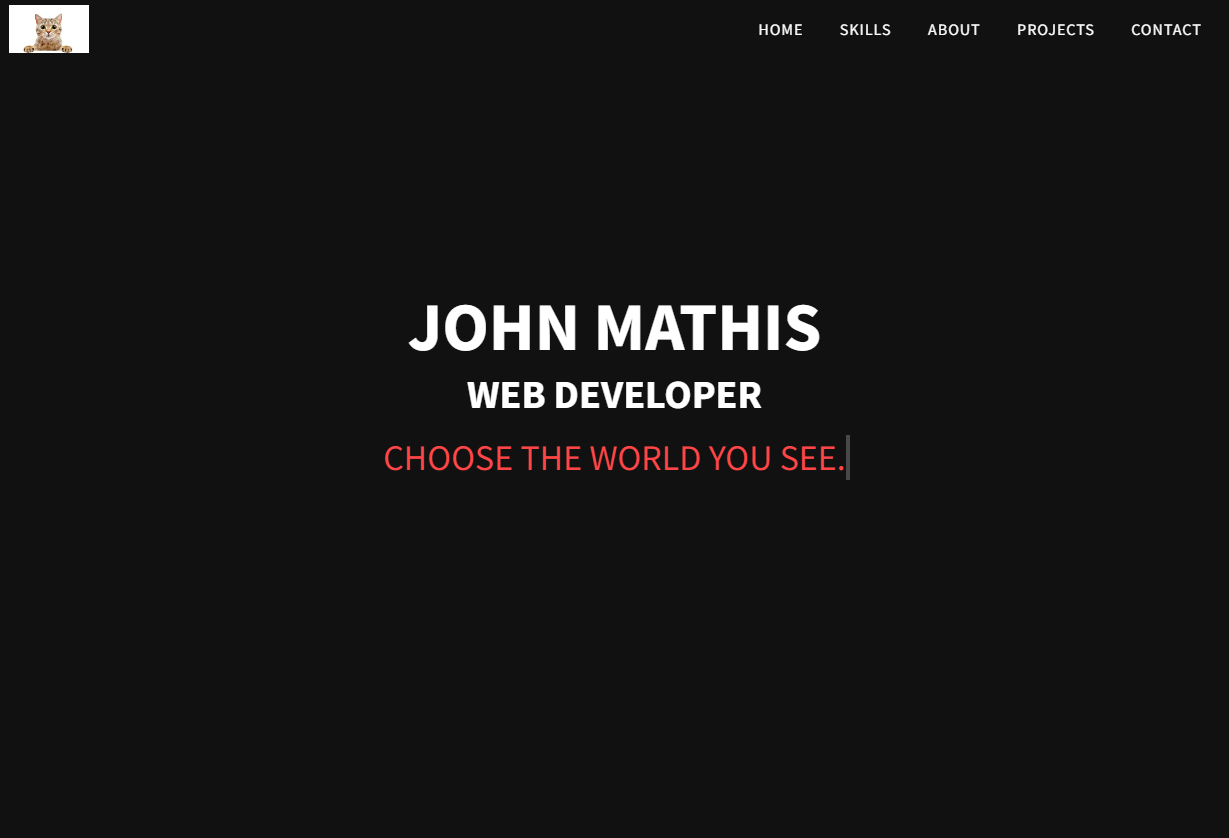
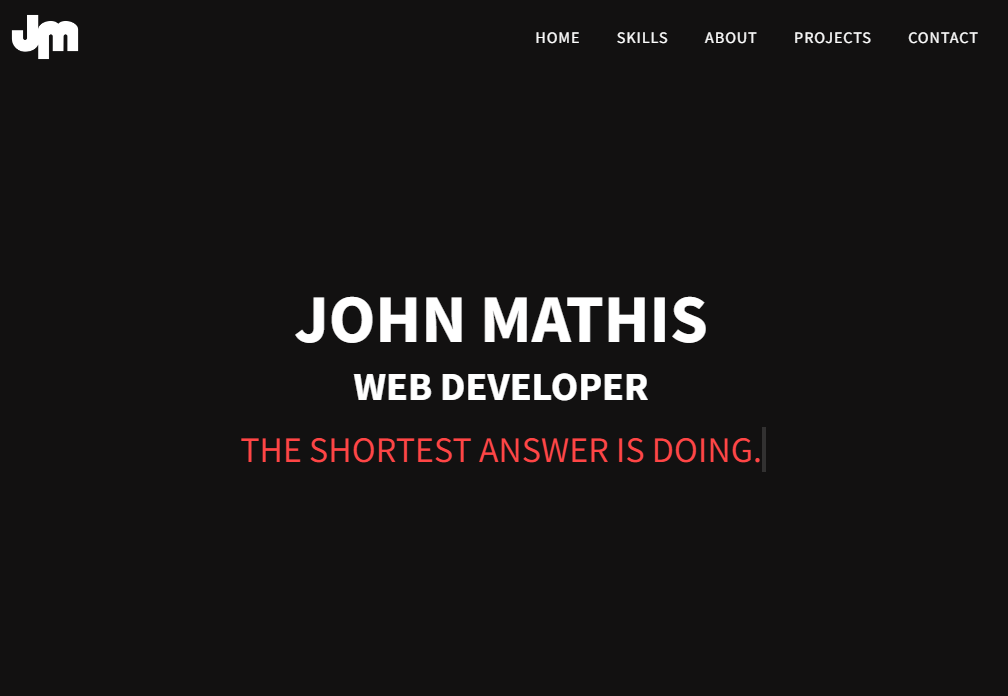
overall edits

diff --git a/src/Components/Projects/Projects.js b/src/Components/Projects/Projects.js
@@ -2,6 +2,7 @@ import React from "react";
 import "..//Projects/Projects.css";
 import Country from "..//..//assets/country-project.png";
 import Portfolio from "..//..//assets/portfolio-project.png";
+import Groupchat from "..//..//assets/groupchat-landing-page.png";
 import { FiGithub } from "react-icons/fi";
 import { CgExport } from "react-icons/cg";
 
@@ -20,23 +21,35 @@ const Projects = () => {
       live: "https://mackmathis.github.io/portfolio/",
       img: Portfolio,
     },
+    {
+      name: "Groupchat ",
+      github: "https://github.com/mackmathis/react-landing-page",
+      live: "https://mackmathis.github.io/react-landing-page/",
+      img: Groupchat,
+    },
   ];
 
-  const maack = projectInfo.map((mack) => {
+  const displayProjectInfo = projectInfo.map((display) => {
     return (
-      <div className="project-card">
-        <p className="project-name">{mack.name}</p>
-        <img className="project-img" src={mack.img} />
-        <div className="card-overlay">
-          <a target="blank" href={mack.github}>
-            <FiGithub className="project-icons" />
-          </a>
+      <React.Fragment key={display.name}>
+        <div className="project-card">
+          <p className="project-name">{display.name}</p>
+          <img
+            className="project-img"
+            src={display.img}
+            alt="screenshot of projects"
+          />
+          <div className="card-overlay">
+            <a target="blank" href={display.github}>
+              <FiGithub className="project-icons" />
+            </a>
 
-          <a target="blank" href={mack.live}>
-            <CgExport className="project-icons" />
-          </a>
+            <a target="blank" href={display.live}>
+              <CgExport className="project-icons" />
+            </a>
+          </div>
         </div>
-      </div>
+      </React.Fragment>
     );
   });
 
@@ -73,7 +86,7 @@ const Projects = () => {
       <div className="projects-container" id="projects">
         <div className="max-container-width">
           <h3 className="section-title">Projects</h3>
-          <div className="container"> {maack}</div>
+          <div className="container"> {displayProjectInfo}</div>
         </div>
       </div>
     </>

diff --git a/src/Components/Home/Home.css b/src/Components/Home/Home.css
@@ -21,14 +21,14 @@
 
 @media screen and (min-width:500px) {
     .header {
-        font-size: 3.5rem;
+        font-size: 4.5rem;
     }
 }
 
 
 @media screen and (min-width:780px) {
     .header {
-        font-size: 4.25rem;
+        font-size: 6rem;
     }
 }
 
@@ -45,13 +45,13 @@
 
 @media screen and (min-width:500px) {
     .sub-heading {
-        font-size: 2rem;
+        font-size: 1.75rem;
     }
 }
 
 @media screen and (min-width:780px) {
     .sub-heading {
-        font-size: 2.5rem;
+        font-size: 2rem;
     }
 }
 
@@ -59,8 +59,8 @@
 /* Dynamic Quote */
 .dynamic-quote {
     margin: 1rem auto 0;
-    font-size: 1.25rem;
-    max-width: 40rem;
+    font-size: 1rem;
+    /* max-width: 40rem; */
     font-weight: 400;
     position: relative;
     color: var(--red);
@@ -68,13 +68,13 @@
 
 @media screen and (min-width:500px) {
     .dynamic-quote {
-        font-size: 1.75rem;
+        font-size: 1.25rem;
     }
 }
 
 @media screen and (min-width:780px) {
     .dynamic-quote {
-        font-size: 2.25rem;
+        font-size: 2rem;
     }
 }
 
@@ -104,9 +104,14 @@ h4::after {
 }
 
 @keyframes typewriter {
+
+
+
     to {
-        left: 100%
+        left: 100%;
     }
+
+
 }
 
 

diff --git a/src/Components/Navbar/Navbar.css b/src/Components/Navbar/Navbar.css
@@ -4,13 +4,17 @@
     flex-direction: row;
     justify-content: space-between;
     align-items: center;
-    padding: 1rem;
+    padding: 0 1rem;
     min-width: 100%;
     position: fixed;
     background-color: var(--transparent-black);
     z-index: 100;
     backdrop-filter: var(--nav-blur);
 
+}
+
+.logo {
+    filter: invert(100%) sepia(0%) saturate(0%) hue-rotate(264deg) brightness(102%) contrast(105%);
 }
 
 .nav-container img {
@@ -98,8 +102,15 @@
     min-width: 30rem;
 }
 
+
+
 .desktop-nav-links a {
     color: var(--white);
+    transition: .6s ease;
+}
+
+.desktop-nav-links a:hover {
+    color: var(--red);
 }
 
 

diff --git a/src/Components/Navbar/Navbar.js b/src/Components/Navbar/Navbar.js
@@ -1,6 +1,6 @@
 import React, { useState } from "react";
 import "./Navbar.css";
-import Logo from "../../assets/cat.webp";
+import Logo from "../../assets/jm.png";
 import { GiHamburgerMenu } from "react-icons/gi";
 
 const Navbar = () => {
@@ -20,7 +20,7 @@ const Navbar = () => {
   return (
     <>
       <div className="nav-container">
-        <img src={Logo} alt="website logo"></img>
+        <img className="logo" src={Logo} alt="website logo"></img>
 
         <GiHamburgerMenu
           className="open-menu-mobile"

diff --git a/src/App.css b/src/App.css
@@ -3,7 +3,7 @@
 
 :root {
   --white: #fff;
-  --icon-hover: rgba(65, 65, 65, 0.466);
+  --icon-hover: rgba(163, 163, 163, 0.466);
   --black: #121111;
   --transparent-black: #12111193;
   --dark-grey: #383838;
